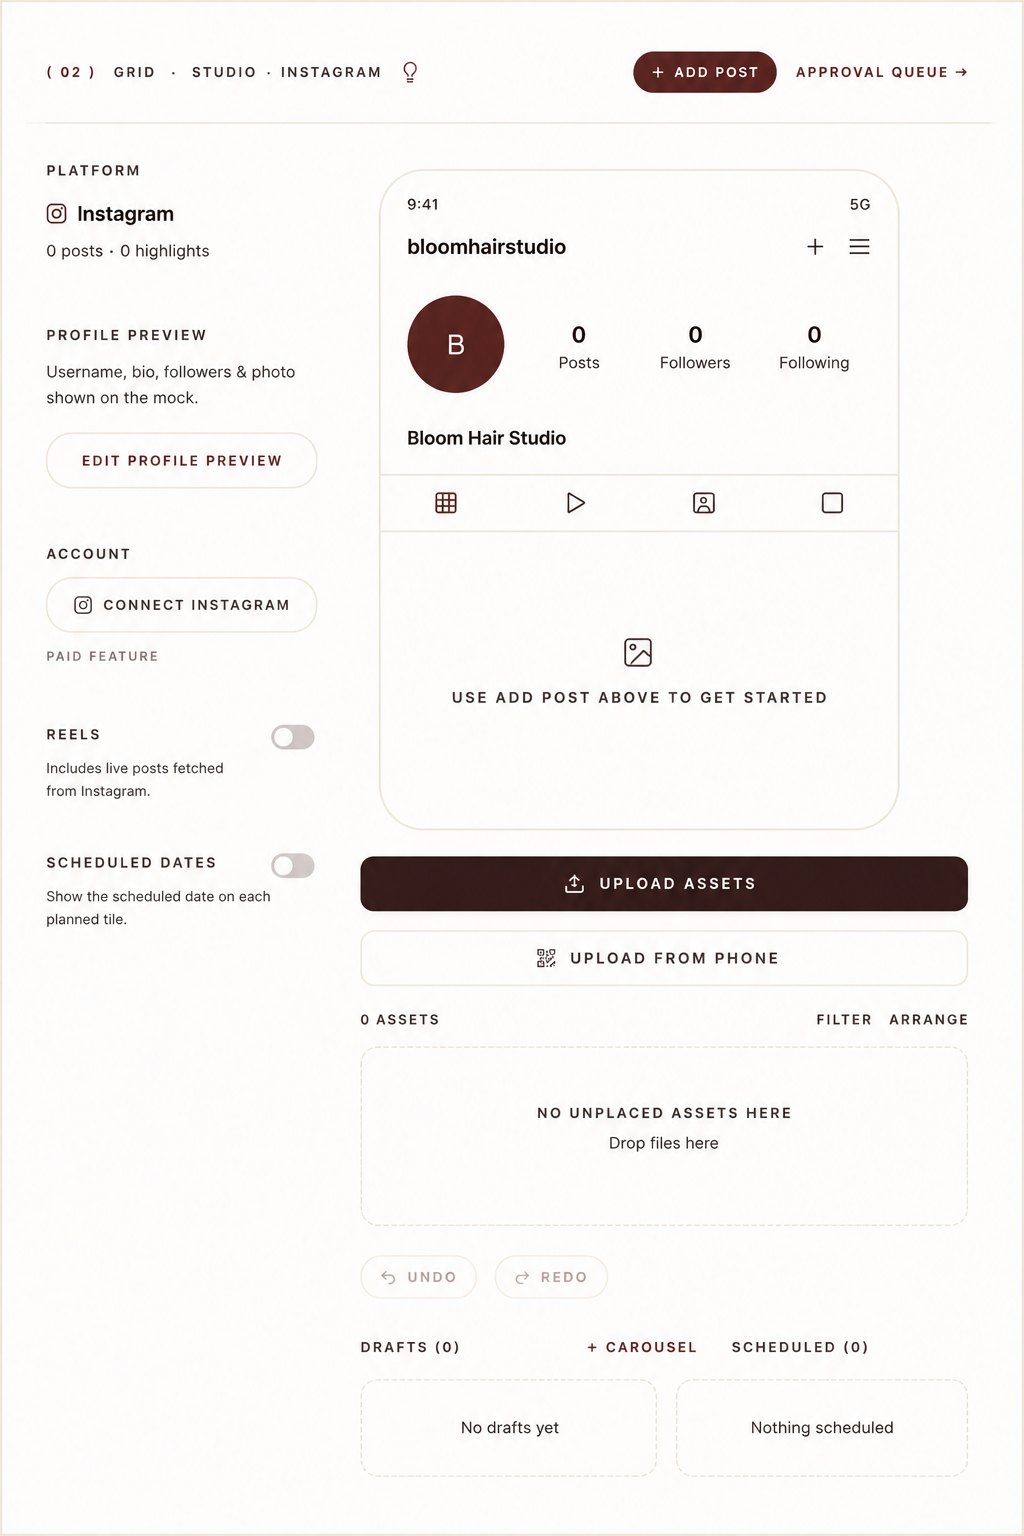
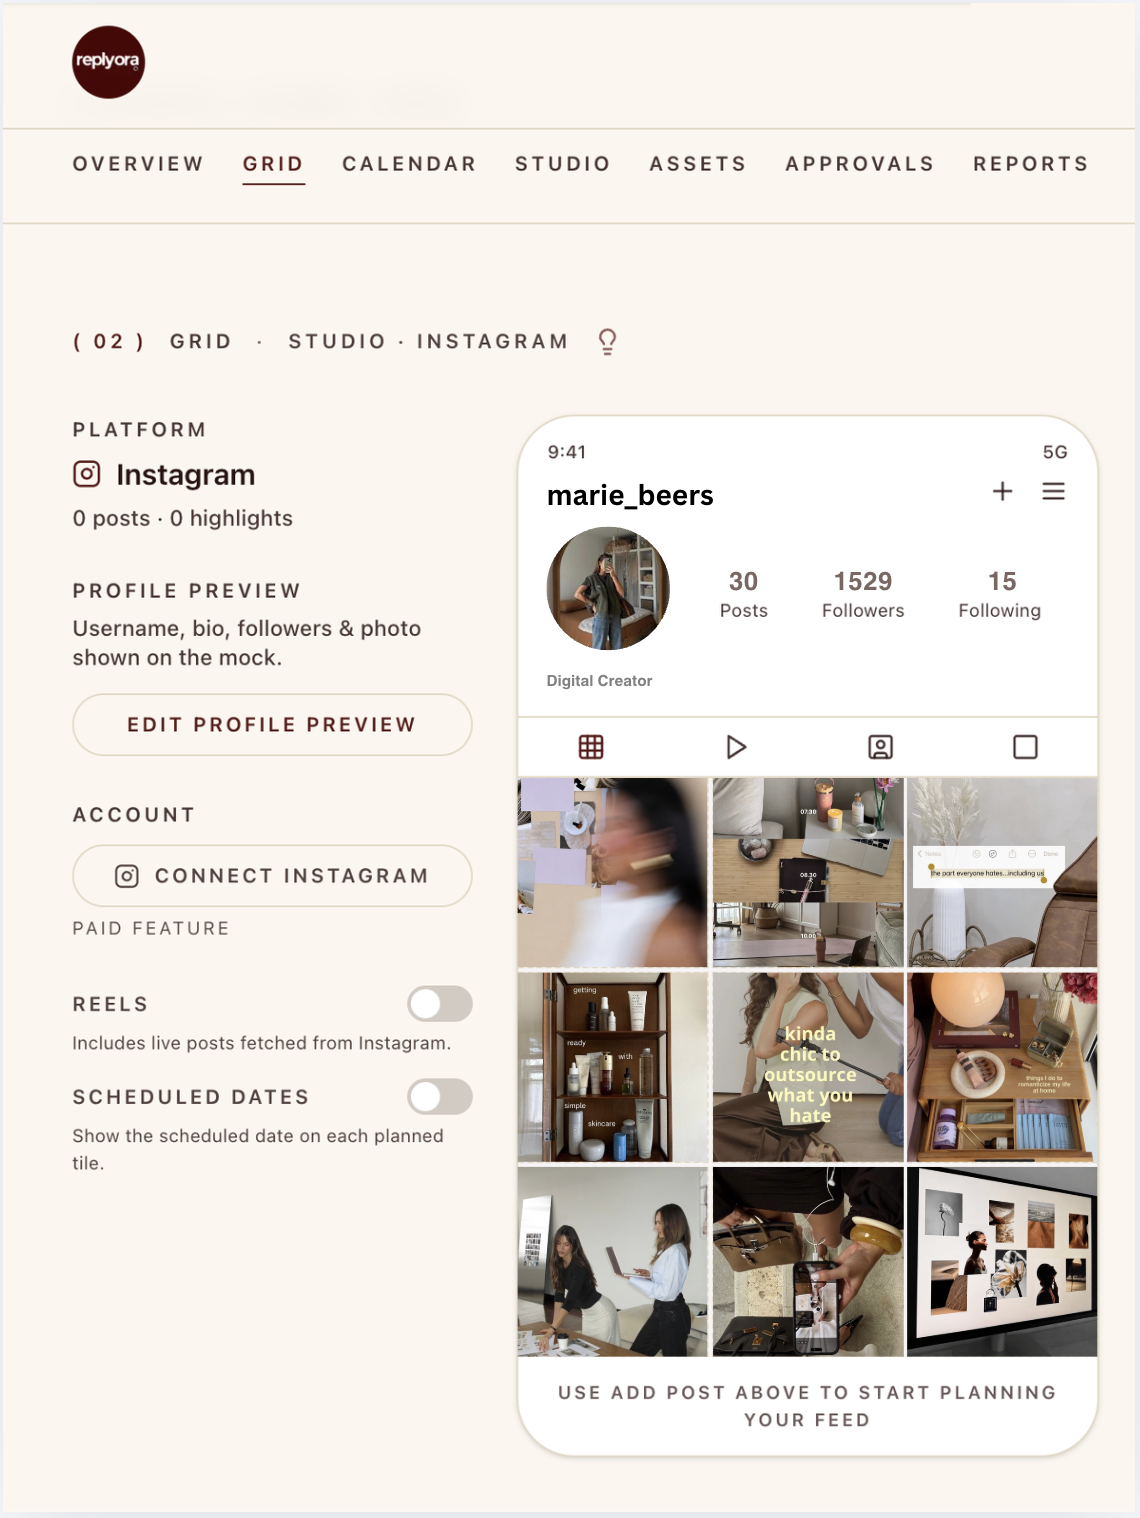
Hero: filled-grid screenshot on the LEFT card (image + top-align)

diff --git a/replyora-starter/components/marketing/social/hero-stack.tsx b/replyora-starter/components/marketing/social/hero-stack.tsx
@@ -33,8 +33,8 @@ type Card = {
 
 const CARDS: Card[] = [
   {
-    // TEMP placeholder: mirrors the new centre photo. Drop the real left image
-    // at public/marketing/hero-left.jpg to swap (no code change needed).
+    // Left card: filled-grid product screenshot. Drop a new image at
+    // public/marketing/hero-left.jpg to swap (no code change needed).
     src: "hero-left.jpg",
     left: "0%",
     top: "16%",
@@ -45,6 +45,7 @@ const CARDS: Card[] = [
     delay: 0.15,
     floatDur: 7,
     floatY: 10,
+    pos: "top",
   },
   {
     src: "hero-center.jpg",
@@ -59,9 +60,7 @@ const CARDS: Card[] = [
     floatY: 14,
   },
   {
-    // Third card: the filled-grid product screenshot. Drop a new image at
-    // public/marketing/hero-right.jpg to swap (no code change needed).
-    src: "hero-right.jpg",
+    src: "brand-1.jpg",
     left: "69%",
     top: "16%",
     width: "31%",
@@ -71,7 +70,9 @@ const CARDS: Card[] = [
     delay: 0.33,
     floatDur: 8,
     floatY: 12,
-    pos: "top",
+    // zoom + bottom-align to crop the second hand off the top (keeps the bag)
+    bgSize: "112%",
+    pos: "center bottom",
   },
 ];
 
